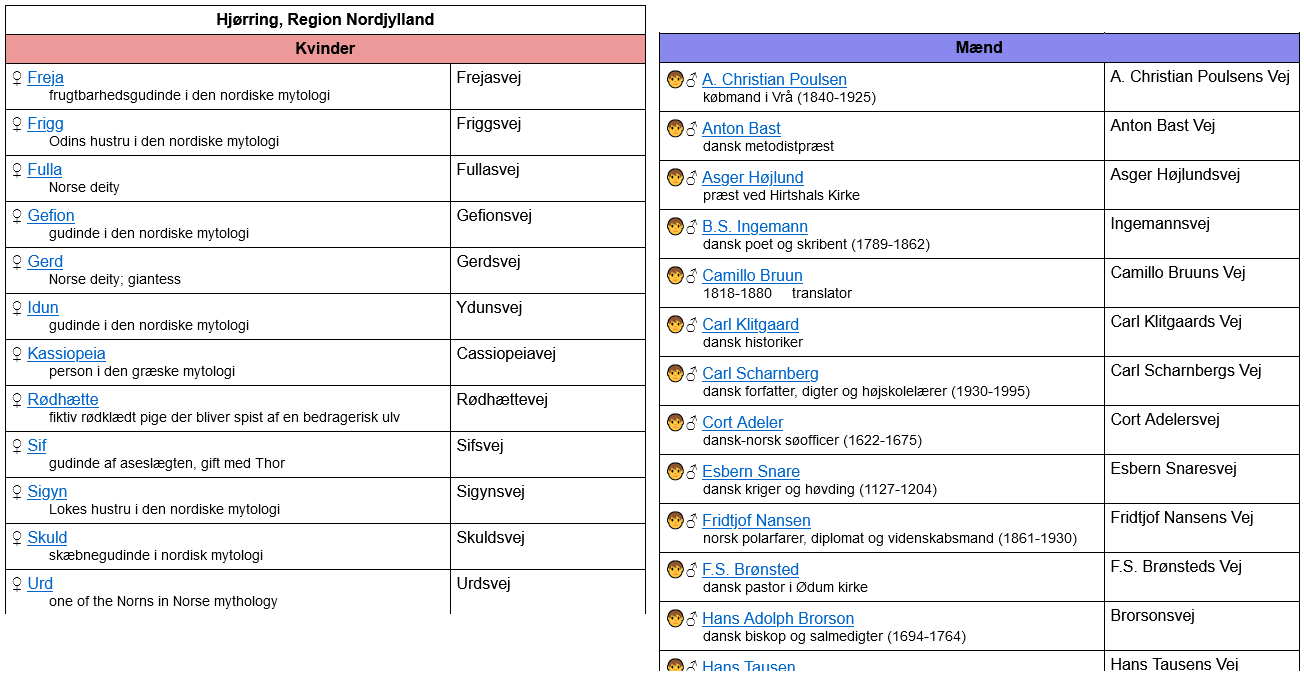
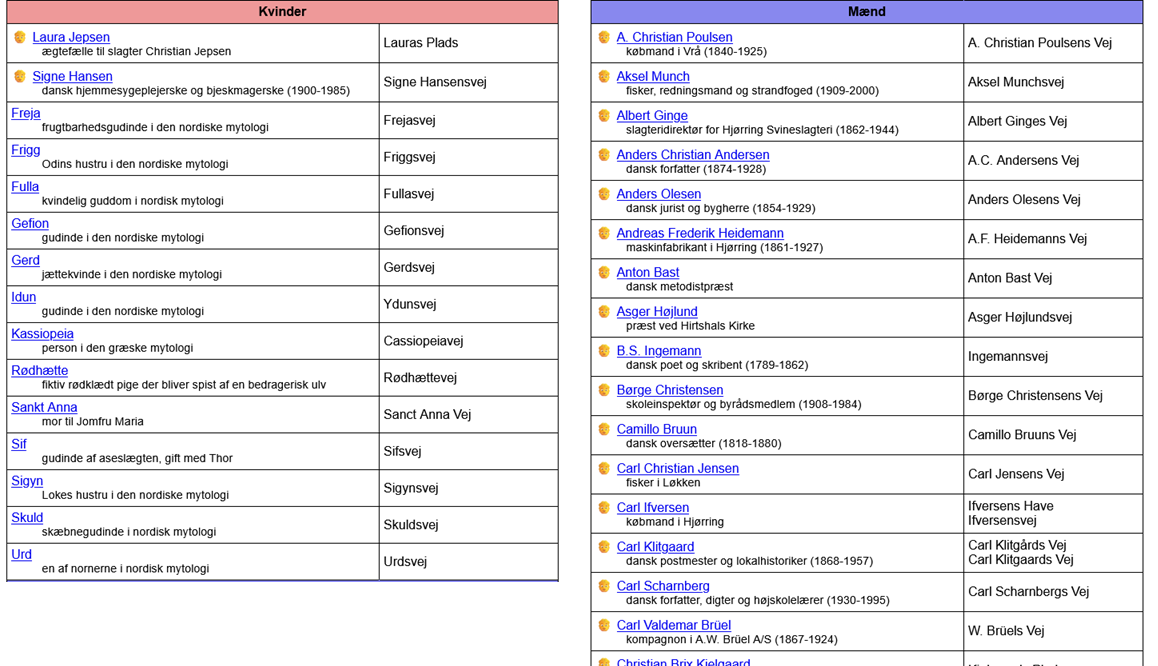
Updated slides, images

diff --git a/www/Kortdage/index.html b/www/Kortdage/index.html
@@ -51,9 +51,9 @@
 					</ul>
 				</section>
 				<aside class="notes">
+					Muligheder: Databaseopslag, m.m. Professioner, køn, etc.
 					Etymologi: Hvad er indholdet? Hvad er OpenStreetMap?<br>
 					Datagrundlag: Hvor kommer data fra? Biblioteksbesøg, fælder.<br>
-					Muligheder: Databaseopslag, m.m. Professioner, køn, etc.
 				</aside>
 			</section>
 			<section>
@@ -63,6 +63,38 @@
 						Alle præsentationer er database-opslag i PostgreSQL.<br>
 						Ingen manuel optælling!<br>
 						Data fra primo november 2025
+					</aside>
+				</section>
+				<section data-auto-animate>
+					<h1 class="r-fit-text">Muligheder med struktureret data</h1>
+					<div class="r-stretch">
+						<a href="https://navne.findvej.dk/"><img src="img/navne_findvej_dk_jomfru_ane_gade.png"></a>
+					</div>
+					<aside class="notes">
+						Mit website.<br>
+						Samler OpenStreetMap- og Wikidata.<br>
+						PostgreSQL som database.<br>
+						Kode på GitHub.<br>
+						Tidligere kollega Sofie (nu KDS), legedag hos Septima i 2021. Gav mig lyst til at kigge nærmere
+						på data.
+					</aside>
+				</section>
+				<section data-auto-animate>
+					<h1 class="r-fit-text">Muligheder med struktureret data</h1>
+					<h3><a href="https://navne.findvej.dk/kommuner/">Opslag på kommuneniveau</a></h3>
+					<div class="fragment r-stretch"><img src="img/kommuner_oversigt.png"></div>
+					<aside class="notes">
+						Forskel mellem om det har været eksisterende personer eller mytologiske personer.<br>
+						46 ud af 98 kommuner har maksimalt 2 veje opkaldt efter eksisterende kvinder.
+					</aside>
+				</section>
+				<section data-auto-animate>
+					<h1 class="r-fit-text">Muligheder med struktureret data</h1>
+					<h3><a href="https://navne.findvej.dk/kommuner/#0860">Hjørring Kommune</a></h3>
+					<h4>2 kvinder og 107 mænd</h4>
+					<div class="r-stretch"><img src="img/Hjørring_kvinder_mænd.png"></div>
+					<aside class="notes">
+						Hjørring Kommune: 2 kvinder, 107 mænd (inkl. fiktive: 15 kvinder, 127 mænd)
 					</aside>
 				</section>
 				<section data-auto-animate>
@@ -217,34 +249,10 @@
 						Dronning Margrethe står for 4 % af kvindernes vejlængde
 					</aside>
 				</section>
-				<section data-auto-animate>
-					<h1 class="r-fit-text">Muligheder med struktureret data</h1>
-					<h3><a href="https://navne.findvej.dk/kommuner/">Opslag på kommuneniveau</a></h3>
-					<div class="fragment"><img src="img/Hjørring_kvinder_mænd.png"></div>
-				</section>
-				<aside class="notes">
-					Forskel mellem om det har været eksisterende personer eller mytologiske personer.<br>
-					Hjørring Kommune: 2 kvinder, 107 mænd (inkl. fiktive: 15 kvinder, 127 mænd)<br>
-					46 ud af 98 kommuner har maksimalt 2 veje opkaldt efter eksisterende kvinder.
-				</aside>
 			</section>
 			<section>
 				<section data-auto-animate>
 					<h1 class="r-fit-text">Etymologi i OpenStreetMap</h1>
-				</section>
-				<section data-auto-animate>
-					<h1 class="r-fit-text">Etymologi i OpenStreetMap</h1>
-					<div class="r-stretch">
-						<a href="https://navne.findvej.dk/"><img src="img/navne_findvej_dk_stockholmsgade.png"></a>
-					</div>
-					<aside class="notes">
-						Mit website.<br>
-						Samler OpenStreetMap- og Wikidata.<br>
-						PostgreSQL som database.<br>
-						Kode på GitHub.<br>
-						Tidligere kollega Sofie (nu KDS), legedag hos Septima. Gav mig lyst til at kigge nærmere på
-						data.
-					</aside>
 				</section>
 				<section data-auto-animate>
 					<h1 class="r-fit-text">Etymologi i OpenStreetMap</h1>
